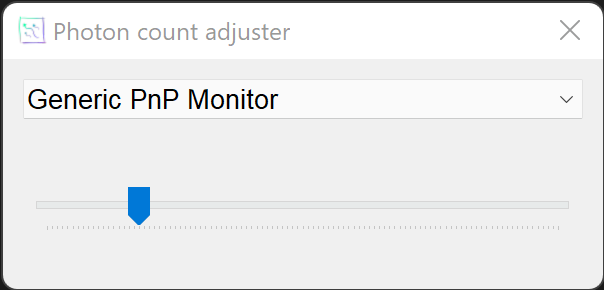
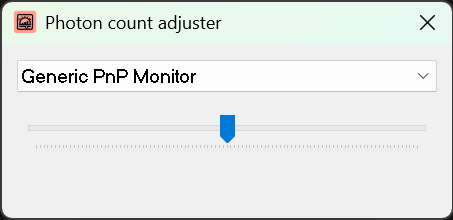
make messages appear in the gui

diff --git a/src/main.rs b/src/main.rs
@@ -40,11 +40,16 @@ pub struct PhotonCountAdjuster {
     #[nwg_events( OnMouseMove: [PhotonCountAdjuster::brightness_slider_updated] )]
     brightness_slider: nwg::TrackBar,
 
+    #[nwg_control()]
+    #[nwg_layout_item(layout: layout, col: 0, row: 2)]
+    status_message: nwg::Label,
+
     monitor_data: RefCell<Vec<ddc_winapi::Monitor>>,
 }
 
 impl PhotonCountAdjuster {
     fn init(&self) {
+        self.set_status("");
         match ddc_winapi::Monitor::enumerate() {
             Ok(monitors) => {
                 if !monitors.is_empty() {
@@ -53,7 +58,7 @@ impl PhotonCountAdjuster {
                     *self.monitor_data.borrow_mut() = monitors;
                     self.brightness_slider.set_enabled(false);
                     for (idx, m) in self.monitor_data.borrow().iter().enumerate() {
-                        if self.try_get_monitor_brightness(m.handle()).is_ok() {
+                        if self.update_monitor_brightness(m.handle()) {
                             self.monitors.set_selection(Some(idx));
                             break;
                         }
@@ -85,30 +90,35 @@ impl PhotonCountAdjuster {
         }
     }
 
-    fn try_get_monitor_brightness(&self, handle: HANDLE) -> Result<(), ()> {
+    /// returns true if successful
+    fn update_monitor_brightness(&self, handle: HANDLE) -> bool {
         let mut minimum: DWORD = 0;
         let mut maximum: DWORD = 0;
         let mut current: DWORD = 0;
         match unsafe { GetMonitorBrightness(handle, &mut minimum, &mut current, &mut maximum) } {
             0 => {
                 self.brightness_slider.set_enabled(false);
-                Err(())
+                let mut icon = nwg::Icon::default();
+                if let Err(e) = nwg::Icon::builder().source_system(Some(nwg::OemIcon::Warning)).build(&mut icon) {
+                    nwg::fatal_message("Error", &format!("Unable to load icon: {e}"));
+                }
+                self.set_status("Unable to control brightness for this monitor");
+                false
             }
             _ => {
                 self.brightness_slider
                     .set_selection_range_pos(minimum as usize..maximum as usize + 1);
                 self.brightness_slider.set_pos(current as usize);
                 self.brightness_slider.set_enabled(true);
-                Ok(())
+                self.set_status("");
+                true
             }
         }
     }
 
     fn monitor_selected(&self) {
         let handle = self.get_selected_monitor();
-        if self.try_get_monitor_brightness(handle).is_err() {
-            nwg::simple_message("Error", "Unable to get monitor brightness");
-        }
+        self.update_monitor_brightness(handle);
     }
 
     fn brightness_slider_updated(&self) {
@@ -117,6 +127,11 @@ impl PhotonCountAdjuster {
         if unsafe { SetMonitorBrightness(handle, brightness) } == 0 {
             nwg::simple_message("Error", "Unable to set monitor brightness");
         }
+    }
+
+    fn set_status(&self, message: &str) {
+        self.status_message.set_text(message);
+        self.status_message.set_visible(!message.is_empty());
     }
 }
 

diff --git a/README.md b/README.md
@@ -1,16 +1,15 @@
-Tool to change the brightness of monitors in Windows.
+Tool to change the brightness of monitors on Windows.
 
 ![Screenshot](screenshot.png)
 
 Requirements
 ============
-Windows  
-rust (https://rustup.rs)  
-Visual studio c++ build tools (https://visualstudio.microsoft.com/downloads/)  
+* Windows  
+* rust (https://rustup.rs)  
+* Visual studio c++ build tools (https://visualstudio.microsoft.com/downloads/)  
 
 Build
 =====
 ```shell
 cargo build --release
 ```
-Binary ends up in `target/release/photon_count_adjuster.exe`
